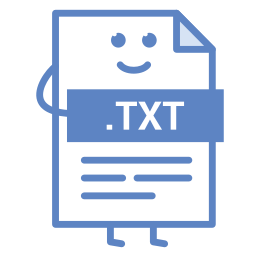
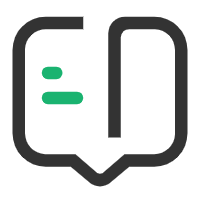
fix: 修改图标

diff --git a/src/main/java/com/falcon/reader/NovelReader.java b/src/main/java/com/falcon/reader/NovelReader.java
@@ -204,6 +204,7 @@ public class NovelReader implements MouseListener, MouseMotionListener, MouseWhe
                 // 左键显示设置
                 showSettings();
             } else if (e.getButton() == MouseEvent.BUTTON2) {
+                // 中键显示章节目录
                 showChapters();
             }
         }

diff --git a/README.md b/README.md
@@ -4,8 +4,9 @@ exe下载：<a href="https://github.com/zxyFalcon/novel-reader/releases">novel-r
 
 ## 功能介绍
 ### 1.2
-* 增加小说章节目录，打开小说后点击鼠标中键可以看到当前小说的全部章节
+* 增加小说章节目录，打开小说后点击鼠标中键可以查看当前小说的章节
 * 分页和阅读记录等功能优化
+* 修改图标
 
 ### 1.1
 * 增加阅读目录，启动后进入主页目录